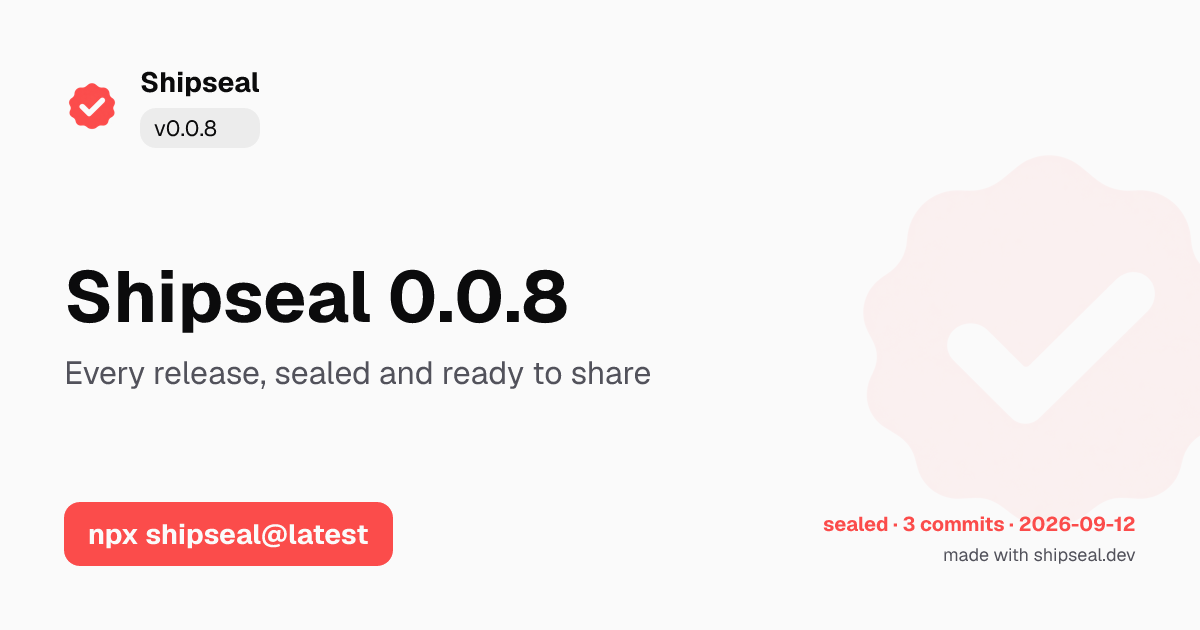
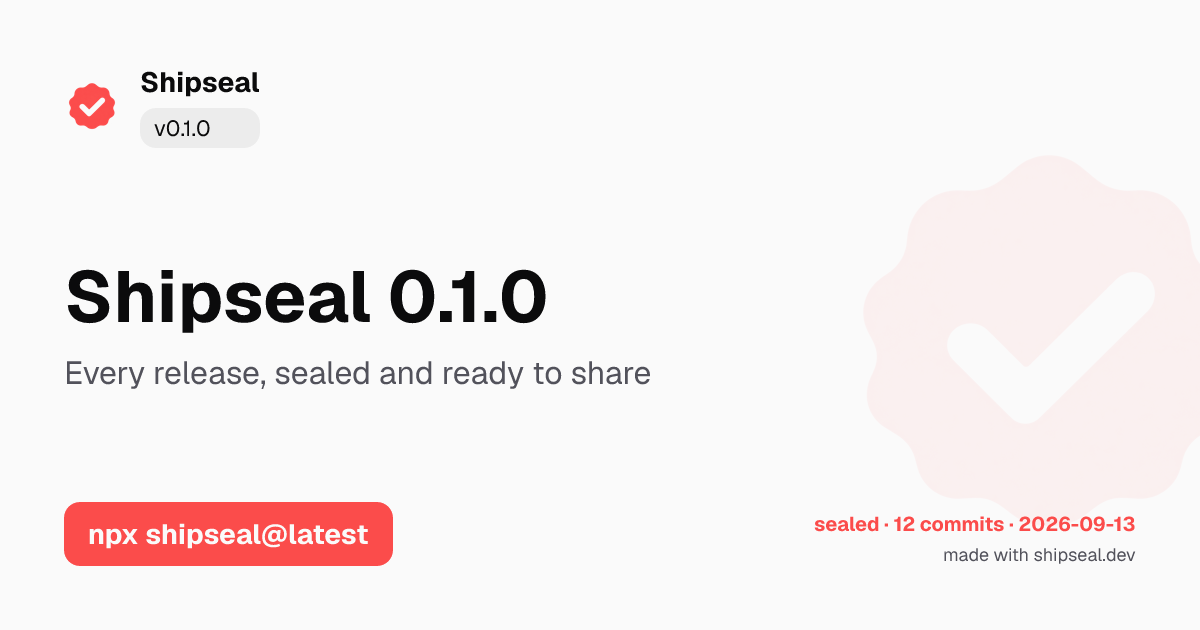
feat: update references to version 0.1.0 across documentation and workflows

diff --git a/docs/RELEASING.md b/docs/RELEASING.md
@@ -65,9 +65,26 @@ asks you to type the version to confirm before creating the release.
 | CI green on this exact commit | not on some earlier one |
 | CHANGELOG has a section for this version | the version pull request was actually merged |
 | `lint`, `typecheck`, `test`, `build` pass locally | on the code that will ship |
-| Showcase images and doc versions match this release | the README must not show older cards, and the documented action reference must not name a tag nobody can resolve |
+| Doc versions match this release | the documented action reference must not name a tag nobody can resolve. Showcase images are re-rendered and reported, but do not block: see below |
 
-Use `pnpm release:check` to run all of it and change nothing.
+Use `pnpm release:check` to run all of it and stop before anything is created. It is not
+read-only: it re-renders the showcase images and rewrites the doc version strings, exactly as
+`pnpm release` does, because that diff is what you are being asked to review.
+
+### Why the showcase images do not block
+
+`scripts/refresh-showcase.mjs` checks two sets of output differently.
+
+The doc version strings are deterministic: one version in, the same bytes out. A difference
+there blocks, because a stale `akii09/shipseal@<tag>` fails a consumer's workflow on its first
+step.
+
+The rendered cards are not deterministic across commits. The seal stamp carries the commit count
+and the release date, so every commit made while cutting a release changes the cards. Blocking on
+those can never settle: committing the new cards moves the count, which re-renders the cards,
+which blocks again. So they are reported and the release continues. The cost is a README card
+whose seal can read one commit fewer than the tag it sits under, which is still real output from
+a real pack at a real commit.
 
 ### The documented action reference
 

diff --git a/README.md b/README.md
@@ -17,7 +17,7 @@ Shipseal turns your repo's releases, milestones, and benchmarks into ready-to-po
 
 ## What it produces
 
-Every image below was generated by Shipseal for its own `v0.0.8` release, by the workflow in
+Every image below was generated by Shipseal for its own `v0.1.0` release, by the workflow in
 this repository. Nothing was edited by hand.
 
 <p align="center">
@@ -42,7 +42,7 @@ Code cards pull a snippet from your README or a file you point at, highlighted w
 rendered without a browser.
 
 The same release also produced GitHub social, X, and LinkedIn sizes, plus a highlights card.
-See the [v0.0.8 release](https://github.com/akii09/shipseal/releases/tag/v0.0.8) for the whole
+See the [v0.1.0 release](https://github.com/akii09/shipseal/releases/tag/v0.1.0) for the whole
 pack, attached automatically by the Action.
 
 ## Why
@@ -78,7 +78,7 @@ jobs:
     steps:
       - uses: actions/checkout@v7
         with: { fetch-depth: 0 }
-      - uses: akii09/shipseal@v0.0.8
+      - uses: akii09/shipseal@v0.1.0
         env: { GITHUB_TOKEN: "${{ secrets.GITHUB_TOKEN }}" }
 ```
 

diff --git a/AGENTS.md b/AGENTS.md
@@ -51,7 +51,8 @@ Write the code an experienced maintainer would sign off on. Concretely:
   Changesets. Releases come from `pnpm release`, which refuses on any bad state.
 - Add a changeset (`pnpm changeset`) in the same change as anything a user would notice. A
   refactor or a test-only change needs none.
-- `pnpm release:check` is always safe: it verifies and changes nothing.
+- `pnpm release:check` creates nothing, but it is not read-only: it re-renders the showcase
+  images and rewrites the doc version strings so you can review that diff before releasing.
 - The full flow is in `docs/RELEASING.md`. Read it before touching anything under
   `.github/workflows/`.
 

diff --git a/docs/STATE.md b/docs/STATE.md
@@ -13,7 +13,7 @@ this file describes the repository as it stands.
 |---|---|
 | Version | `0.0.8` in `packages/shipseal/package.json`, tag `v0.0.8`, npm `0.0.8` |
 | Phases | 1 to 3 done and verified. Phase 4 (launch) in progress |
-| Tests | 21 files, 224 tests, 6 of them golden images |
+| Tests | 21 files, 228 tests, 6 of them golden images |
 | Published by | `publish.yml` over OIDC, no npm token exists anywhere |
 | External adopters | **None yet.** See `adopters.md`. This is the gating number for launch |
 

diff --git a/docs/PROJECT_PLAN.md b/docs/PROJECT_PLAN.md
@@ -990,7 +990,7 @@ jobs:
       - uses: actions/checkout@v7
         with:
           fetch-depth: 0   # required: full history and tags for release facts
-      - uses: akii09/shipseal@v0.0.8
+      - uses: akii09/shipseal@v0.1.0
         env:
           GITHUB_TOKEN: ${{ secrets.GITHUB_TOKEN }}
 ```

diff --git a/packages/shipseal/README.md b/packages/shipseal/README.md
@@ -49,7 +49,7 @@ jobs:
     steps:
       - uses: actions/checkout@v7
         with: { fetch-depth: 0 }
-      - uses: akii09/shipseal@v0.0.8
+      - uses: akii09/shipseal@v0.1.0
         env: { GITHUB_TOKEN: "${{ secrets.GITHUB_TOKEN }}" }
 ```
 
